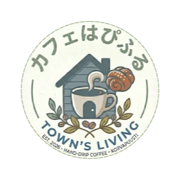
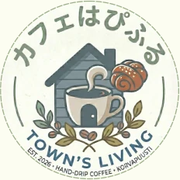
fix: ファビコンを円形に切り抜き白い四角背景を解消する
タブ上でロゴが白い四角の中に浮いて見えづらかったため、円形マスクをかけた。

- favicon-32.png: 円の外側を透過（32x32 RGBA）
- apple-touch-icon.png: 同じ絵柄を地色 #FCFDF1 で埋めて不透過（180x180 RGB）
  iOSがホーム画面で透過部分を黒く合成する端末があるため、こちらは不透過とする

元素材は logo.webp（231x288）。文字入りロゴの中では最高解像度で、かつ既に
円形マスク＋透過済みだったため円をそのまま流用した（旧 apple-touch-icon の
180pxより精細）。縮小はプリマルチプライドアルファで行い、透過部の黒が縁に
にじむのを防いでいる。

index.html の link 要素は変更なし（画像の差し替えのみ）。

diff --git a/進捗ログ.md b/進捗ログ.md
@@ -32,6 +32,16 @@
 - PROJECT_MEMO.md の 6-3 / 6-3-2 / 6-3-3 を上記に合わせて更新。
 - ローカルプレビュー（python http.server:8765）でDOM・算出スタイルを検証し、
   4枚のカードのタイトル/バッジ/本文/注釈、破線枠の解除、フォームのvalueがすべて意図通りであることを確認。
+- ファビコンを円形に切り抜き、白い四角背景を解消。
+  - `assets/images/favicon-32.png` … 円の外側を透過（32×32 RGBA）。
+  - `assets/images/apple-touch-icon.png` … 同じ絵柄を地色 `#FCFDF1` で埋めて不透過（180×180 RGB）。
+  - 元素材は `assets/images/logo.webp`（231×288）。文字入りロゴの中では最高解像度で、
+    かつ既に円形マスク＋透過済みだったため円をそのまま流用（旧 apple-touch-icon の180pxより精細）。
+    円のbbox `(0,28)-(230,259)` を232×232の正方形に整えてから縮小。
+  - 縮小はプリマルチプライドアルファで実施（透過部の黒が縁ににじむのを防ぐため）。
+  - `index.html` の `<link rel="icon">` / `<link rel="apple-touch-icon">` は変更なし（画像の差し替えのみ）。
+  - ローカルプレビューで両方200、favicon四隅 `(0,0,0,0)`、
+    apple-touch-icon四隅 `(252,253,241,255)` を確認。
 
 ### 未完了・次回やること
 - microCMSのサポーター紹介を入稿する（ドライブの手書きメモの内容。コード変更ではなくCMS入稿作業）。
@@ -48,6 +58,11 @@
   Netlifyのブランチデプロイでプレビューする（GitHub PagesではFunctionsが動かず、CORSを緩める必要が出るため）。
 - ブラウザプレビューのスクロールとスクリーンショットが本セッションでは不安定だったため、
   見た目の確認はDOM＋算出スタイルで実施。次回スクロール後の実画面も目視確認しておくとよい。
+- ファビコンの絵柄は**文字入りロゴのまま**とする（クライアント判断）。
+  32pxでは文字が潰れるため文字なしのシンボル丸ロゴ（`logo-square.webp` のカップ＋家）案も出したが、
+  ロゴの一貫性を優先して不採用。細かい文字の可読性は問わない方針。
+- apple-touch-icon だけ不透過にしているのは、iOSがホーム画面で透過部分を黒く合成する端末があるため。
+  透過に揃えたくなった場合はこの点を承知のうえで変更すること。
 
 ---
 
